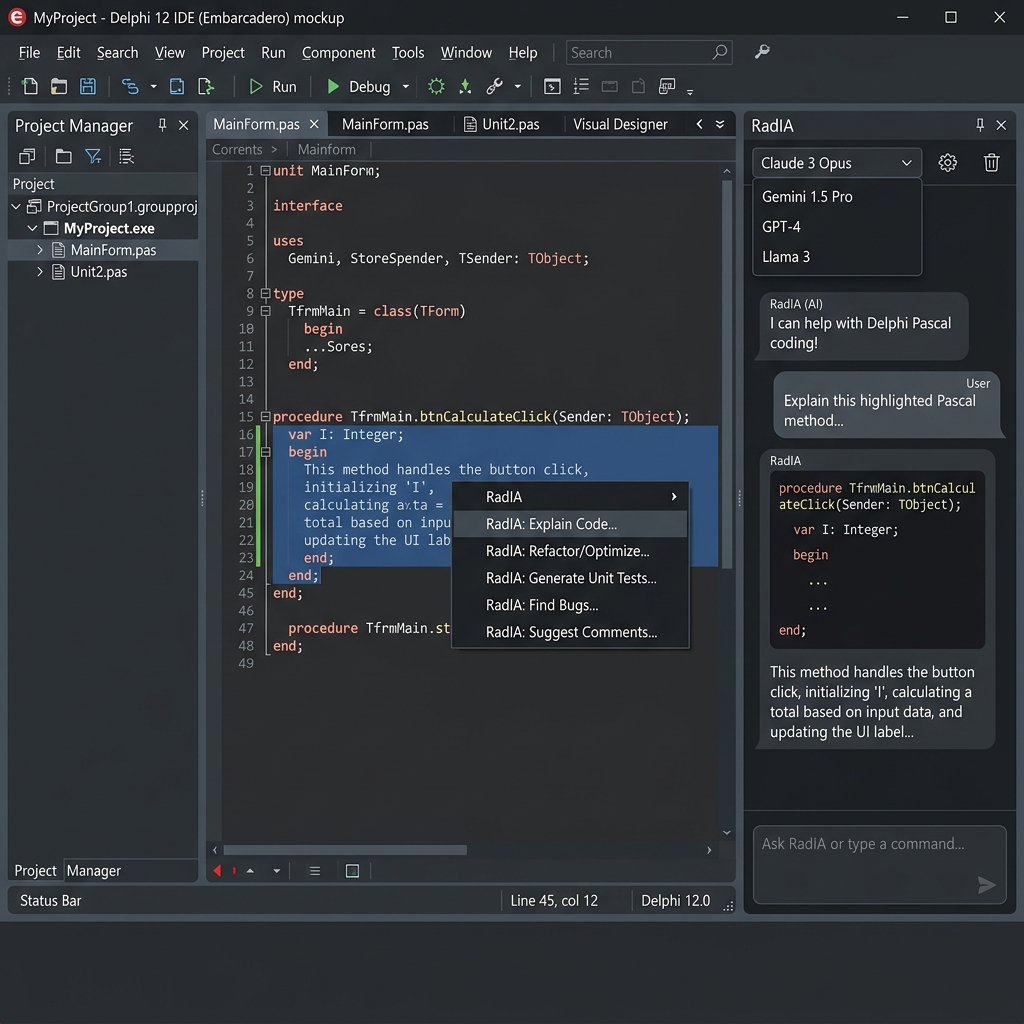
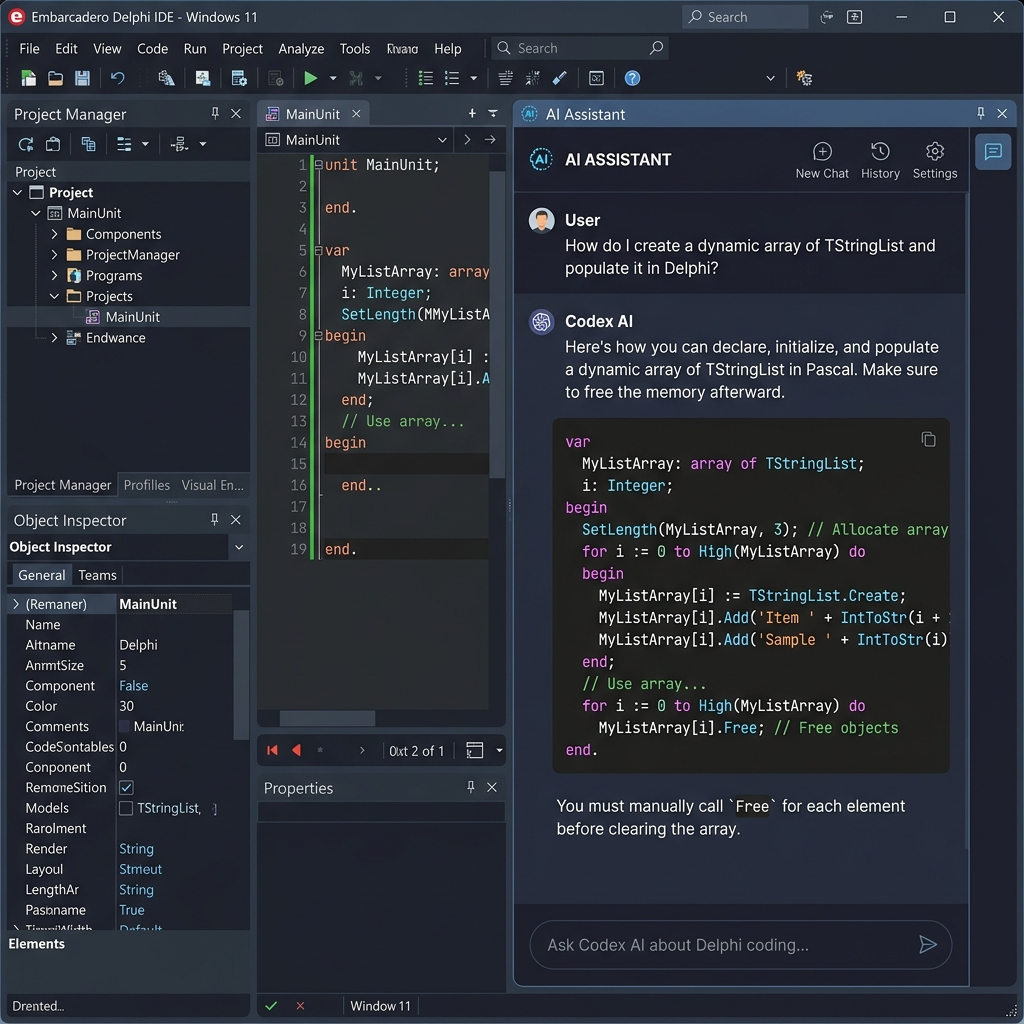
docs: update mockups and display them in READMEs

diff --git a/README.en.md b/README.en.md
@@ -8,6 +8,12 @@
 
 **RadIA** is an advanced AI assistant plugin designed specifically for the Embarcadero Delphi IDE (using the Open Tools API). It docks directly into the IDE sidebar, providing an interactive chat interface and deep contextual integration with the code editor to accelerate development, refactoring, and debugging.
 
+<p align="center">
+  <img src="docs/images/radia_ui_mockup.png" alt="RadIA Chat Panel Mockup" width="45%" />
+  &nbsp;&nbsp;
+  <img src="docs/images/radia_diff_ui_mockup.png" alt="RadIA Diff View Mockup" width="45%" />
+</p>
+
 ---
 
 ### 1. Language Standard

diff --git a/README.md b/README.md
@@ -8,6 +8,12 @@
 
 **RadIA** é um plugin assistente de IA avançado projetado especificamente para a IDE do Embarcadero Delphi (usando a Open Tools API). Ele se acopla diretamente à barra lateral da IDE, fornecendo uma interface de chat interativa e integração contextual profunda com o editor de código para acelerar o desenvolvimento, refatoração e depuração.
 
+<p align="center">
+  <img src="docs/images/radia_ui_mockup.png" alt="RadIA Chat Panel Mockup" width="45%" />
+  &nbsp;&nbsp;
+  <img src="docs/images/radia_diff_ui_mockup.png" alt="RadIA Diff View Mockup" width="45%" />
+</p>
+
 ---
 
 ### 1. Padrão de Linguagem